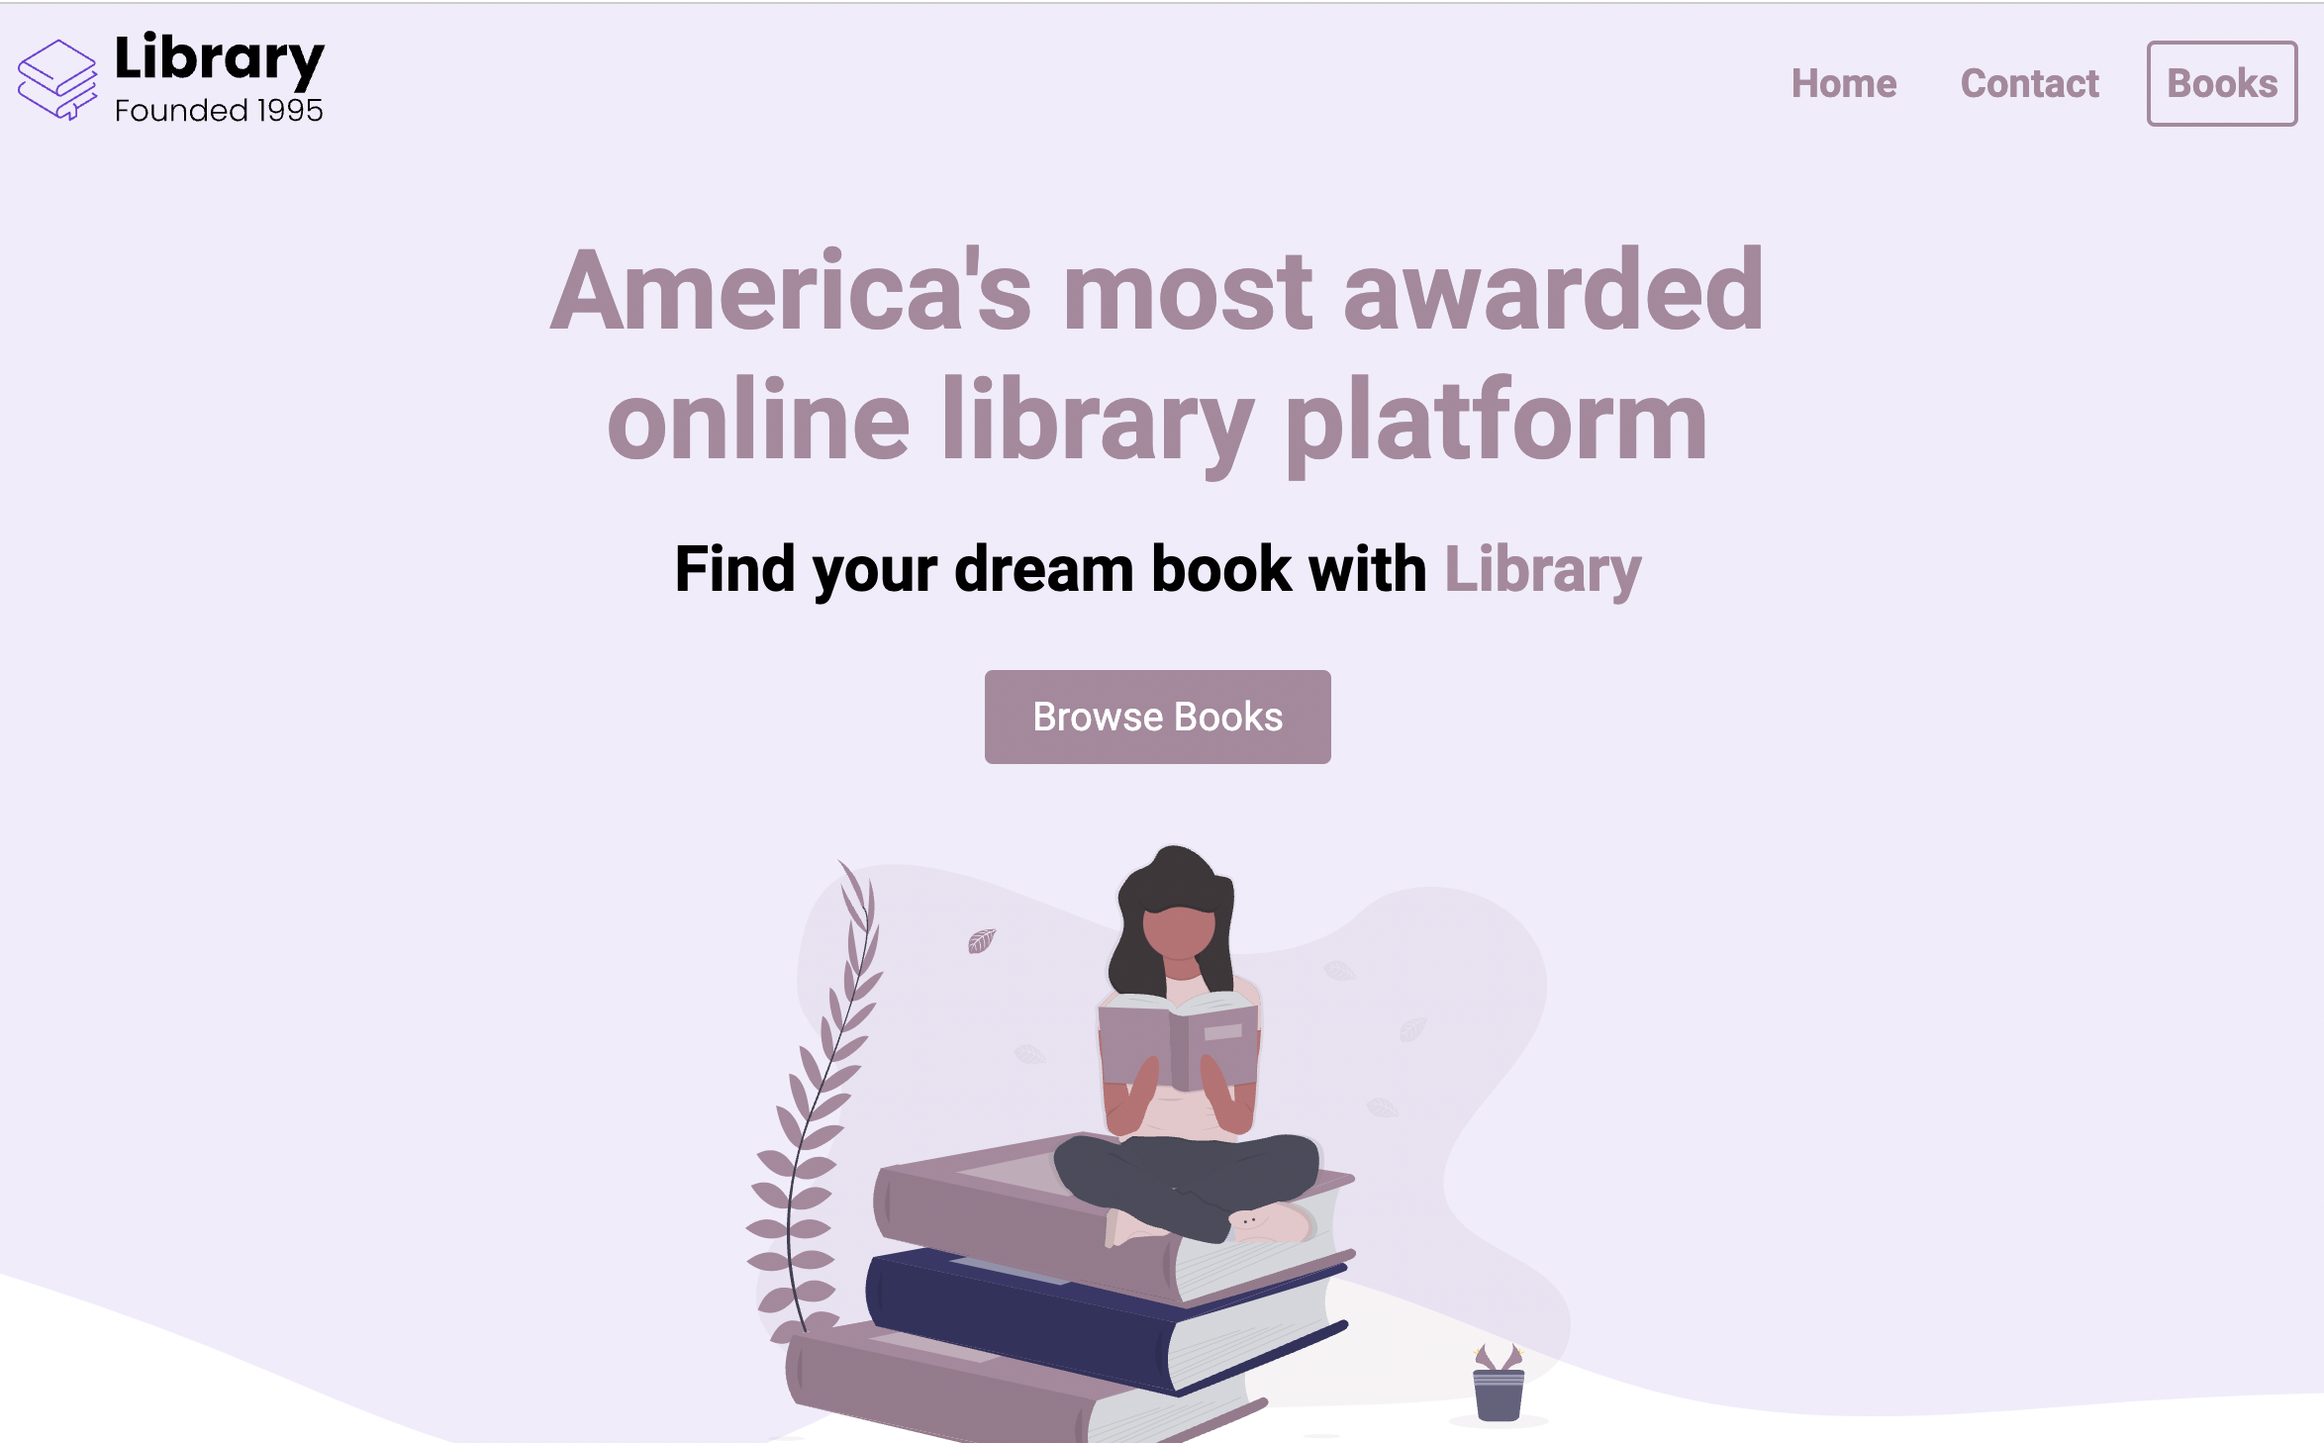
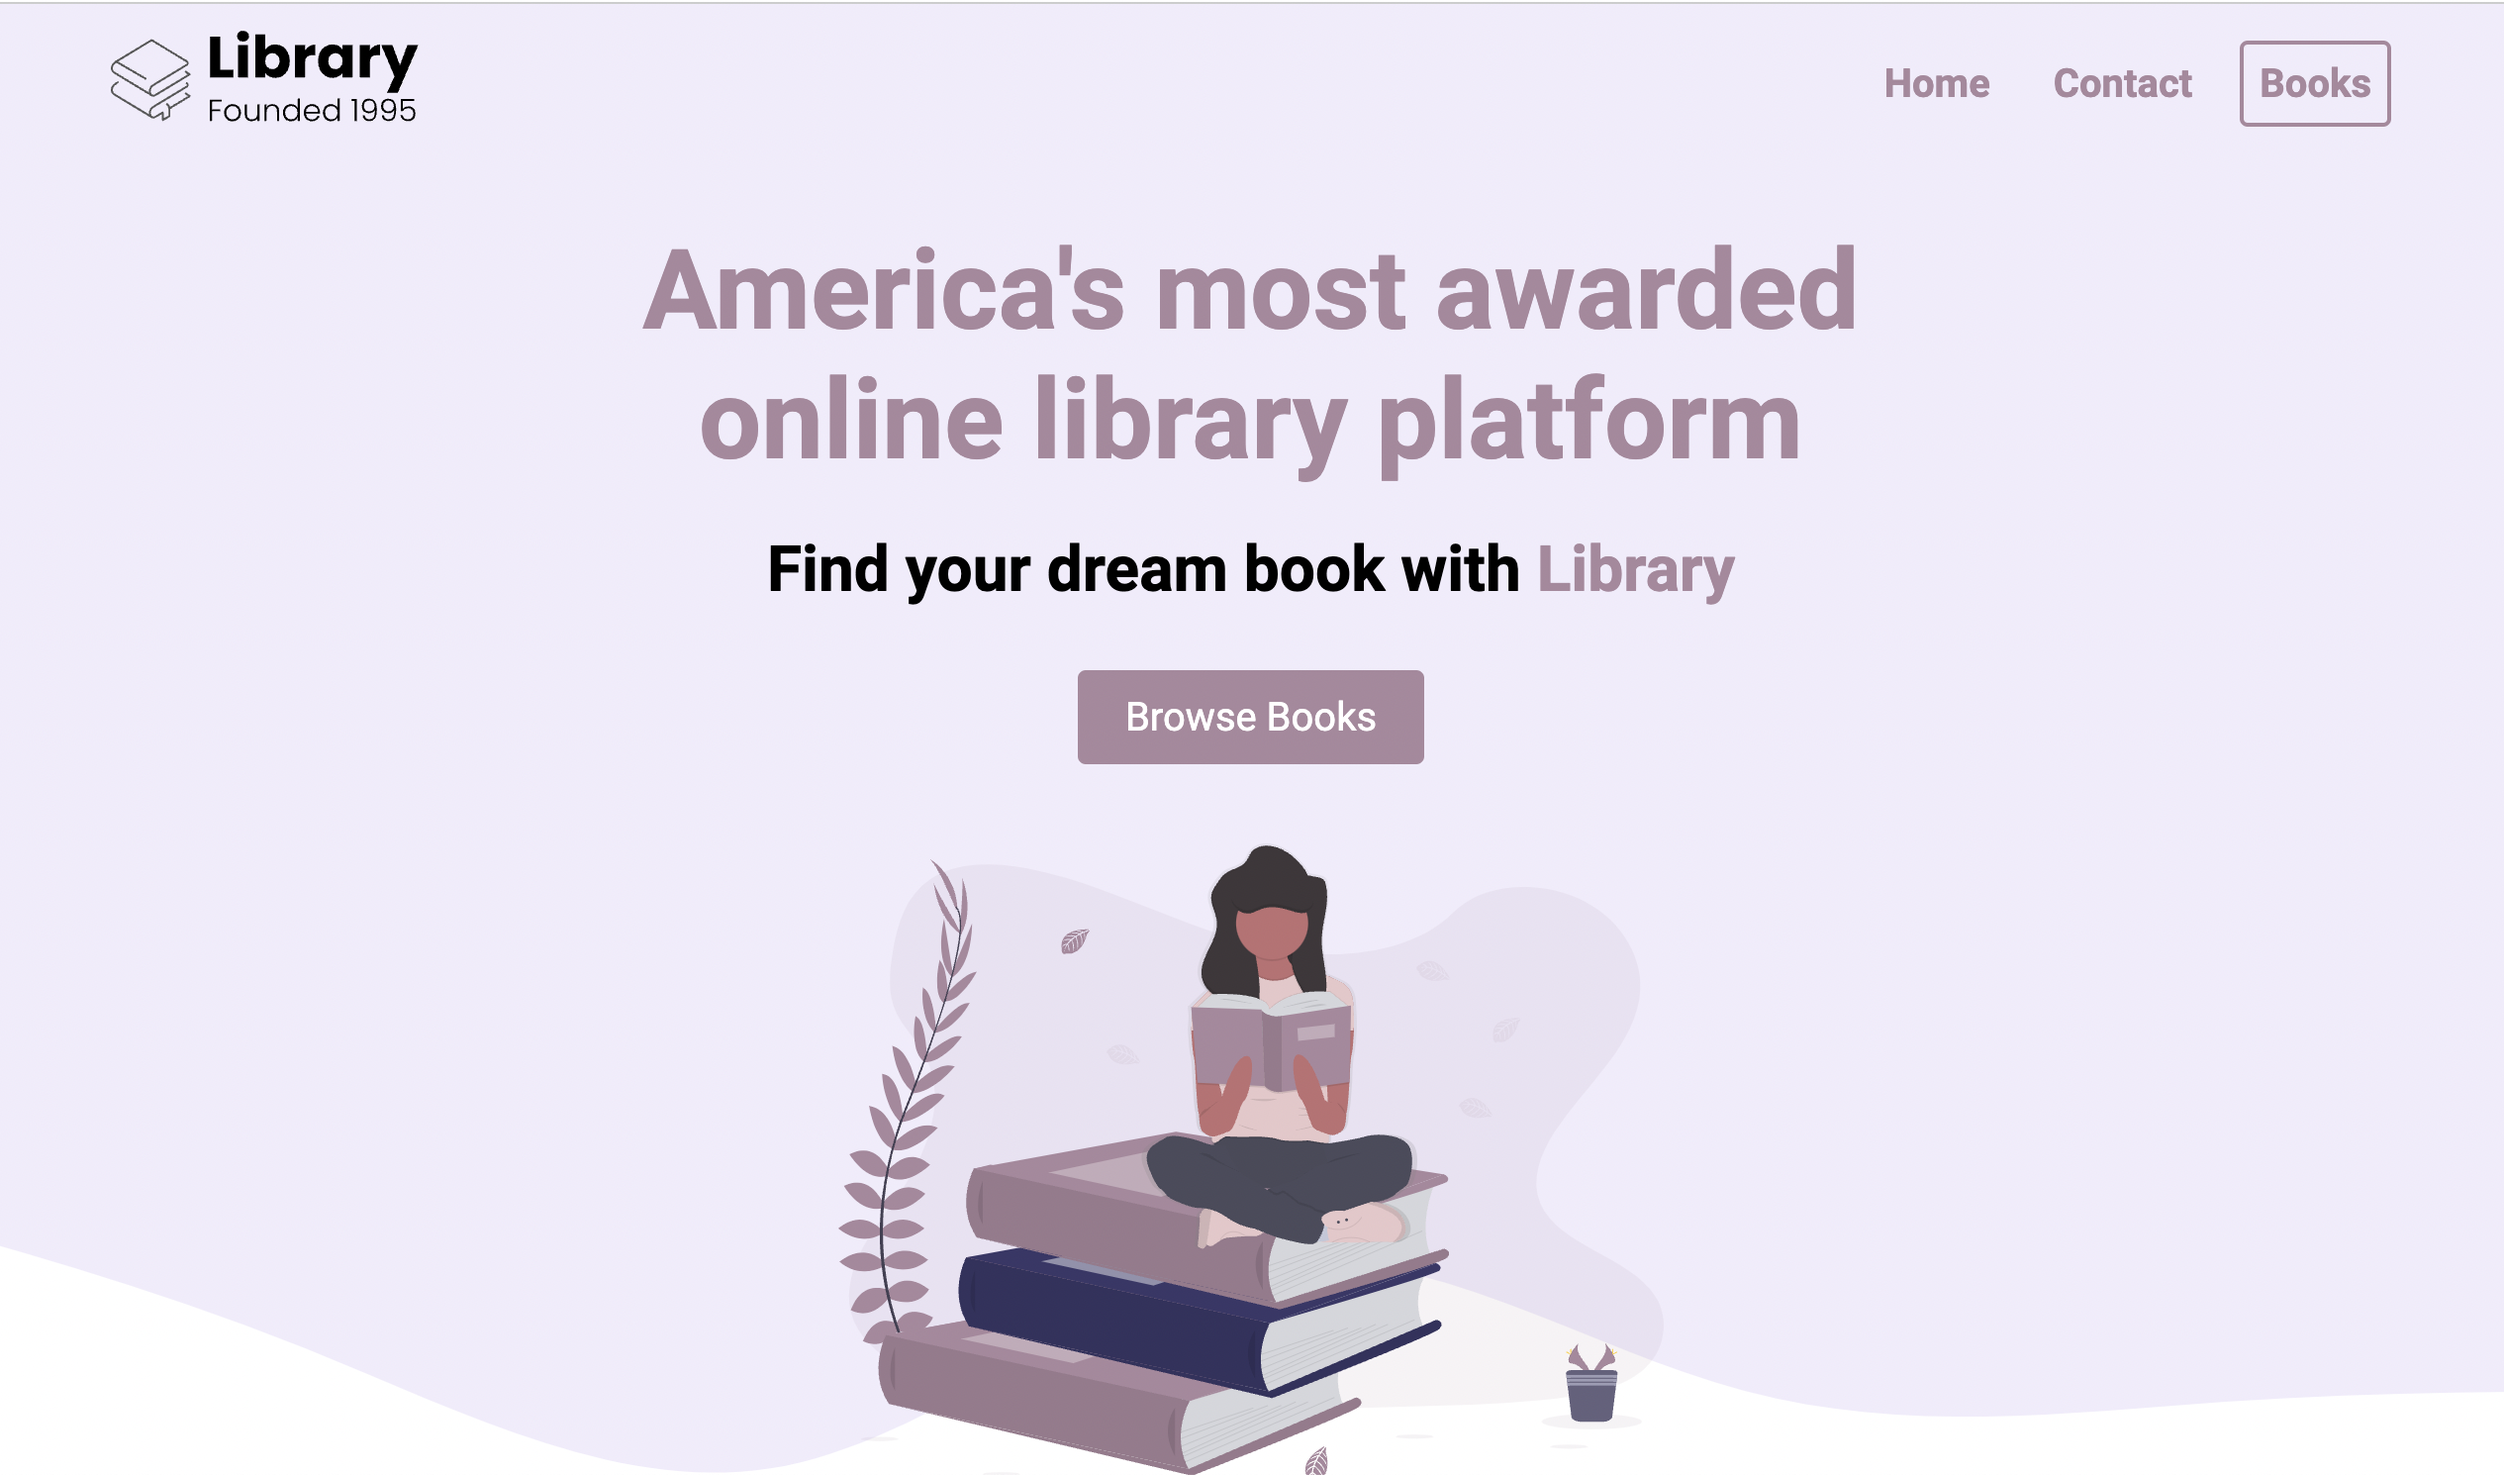
edited background images

diff --git a/styles.css b/styles.css
@@ -630,8 +630,8 @@ SHAPES
 
 .shape {
     position: fixed;
-    height: 100px;
-    width: 100px;
+    height: 900px;
+    width: 900px;
 }
 
 .shape--0 {
